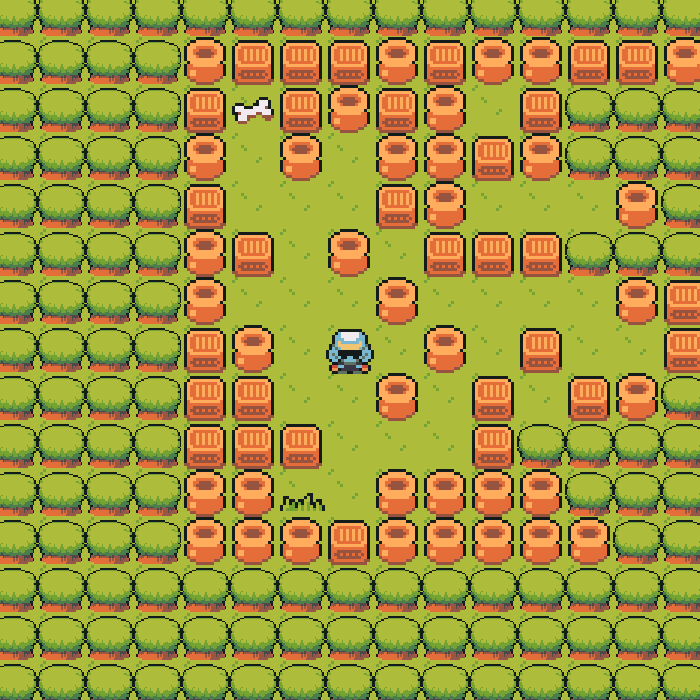
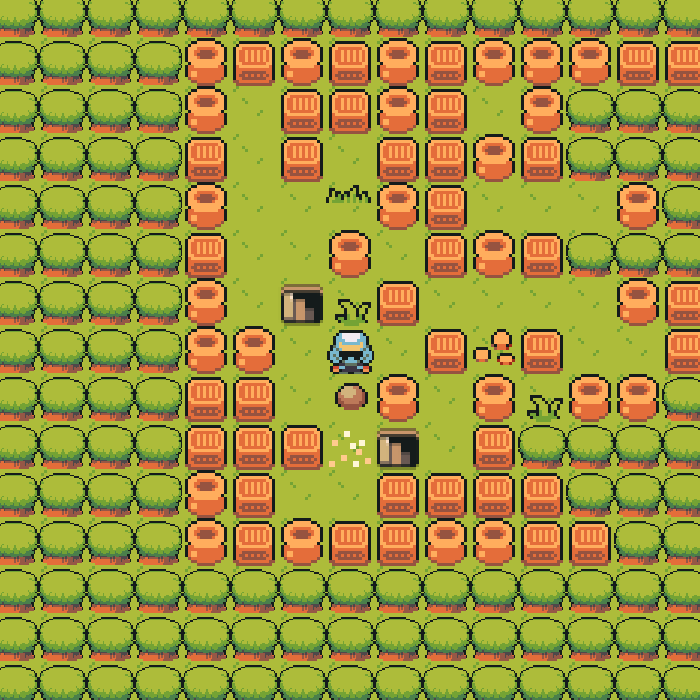
ladders

Changed region(s): [[0.0, 0.0, 1.0, 1.0]]

diff --git a/game.py b/game.py
@@ -8,6 +8,7 @@ from picture import Picture
 from text import Text
 import functions
 from missile import Missile
+from Ladder import Ladder
 from os import listdir, path
 
 
@@ -35,7 +36,9 @@ class Game:
             'deadPlayer': pygame.transform.scale(functions.load_image('deadPlayer.png'), (48, 48)),
             'spikes': pygame.transform.scale(functions.load_image('spikes.png'), (480, 48)),
             'shuriken': pygame.transform.scale(functions.load_image('shuriken.png'), (96, 48)),
-            'darkNinja': pygame.transform.scale((functions.load_image('darkNinja.png')), (192, 96))
+            'darkNinja': pygame.transform.scale((functions.load_image('darkNinja.png')), (192, 96)),
+            "ladder": pygame.transform.scale(functions.load_image('ladder.png'), (48, 48))
+
         }
         self.enemies = []
         self.coordSpikes = []
@@ -61,6 +64,7 @@ class Game:
         self.tiles_group = pygame.sprite.Group()
         self.player_group = pygame.sprite.Group()
         self.enemies_group = pygame.sprite.Group()
+        self.ladders_group = pygame.sprite.Group()
         level_list = functions.load_level(name_level)
         enemyEventType = pygame.USEREVENT + 1
         spikesEventType = enemyEventType + 1
@@ -98,6 +102,12 @@ class Game:
                 if event.type == spikesEventType:
                     for y, x in self.coordSpikes:
                         self.level[y][x].update(event)
+                if event.type == pygame.KEYDOWN:
+                    if event.key == pygame.K_e:
+                        for i in self.ladders_group:
+                            if i.coord == self.player.coord:
+                                i.use()
+                                break
                 self.player.update(event)
             # изменяем ракурс камеры
             self.camera.update(self.player)

diff --git a/gameObject.py b/gameObject.py
@@ -1,5 +1,5 @@
 import pygame
-
+from coord import Coord
 
 class GameObject(pygame.sprite.Sprite):
     def __init__(self, sheet, pos_x, pos_y, game, cols, rows, groups):
@@ -12,6 +12,7 @@ class GameObject(pygame.sprite.Sprite):
         self.rect = self.image.get_rect().move(game.tile_width * pos_x, game.tile_height * pos_y)
         self.game = game
         self.center = self.rect.center
+        self.coord = Coord(pos_x, pos_y)
 
     def update(self, *args):
         pass
@@ -31,3 +32,6 @@ class GameObject(pygame.sprite.Sprite):
     def update_sprite(self, numSprite):
         self.cur_frame = numSprite % len(self.frames)
         self.image = self.frames[int(self.cur_frame % len(self.frames))]
+
+    def use(self):
+        pass

diff --git a/functions.py b/functions.py
@@ -13,6 +13,7 @@ from tree import Tree
 from spikes import Spikes
 from darkNinja import DarkNinja
 from missile import Missile
+from Ladder import Ladder
 import sys
 
 
@@ -92,6 +93,9 @@ def generate_level(level, game, inHouse):
             elif level[y][x] == '$':
                 new_level[y][x] = Spikes('spikes', x, y, game, 10, 1)
                 spikesCoord.append([y, x])
+            elif level[y][x] == 'L':
+                new_level[y][x] = Ladder('ladder', x, y, game, 1, 1)
+                game.ladders_group.add(new_level[y][x])
     # Генерация врагов
     for y in range(len(level)):
         for x in range(len(level[y])):

diff --git a/dynamicGameObject.py b/dynamicGameObject.py
@@ -6,7 +6,6 @@ from coord import Coord
 class DynamicGameObject(GameObject):
     def __init__(self, sheet, pos_x, pos_y, game, cols, rows, groups):
         super().__init__(sheet, pos_x, pos_y, game, cols, rows, groups)
-        self.coord = Coord(pos_x, pos_y)
 
     def check(self, x, y):
         try:

diff --git a/coord.py b/coord.py
@@ -8,3 +8,9 @@ class Coord:
 
     def __iadd__(self, other):
         return Coord(self.x + other[0], self.y + other[1])
+
+    def __eq__(self, other):
+        return other.x == self.x and other.y == self.y
+
+    def __ne__(self, other):
+        return not self.__eq__(other)

diff --git a/staticGameObject.py b/staticGameObject.py
@@ -1,5 +1,6 @@
 import pygame
 from gameObject import GameObject
+from coord import Coord
 
 
 class StaticGameObject(GameObject):
